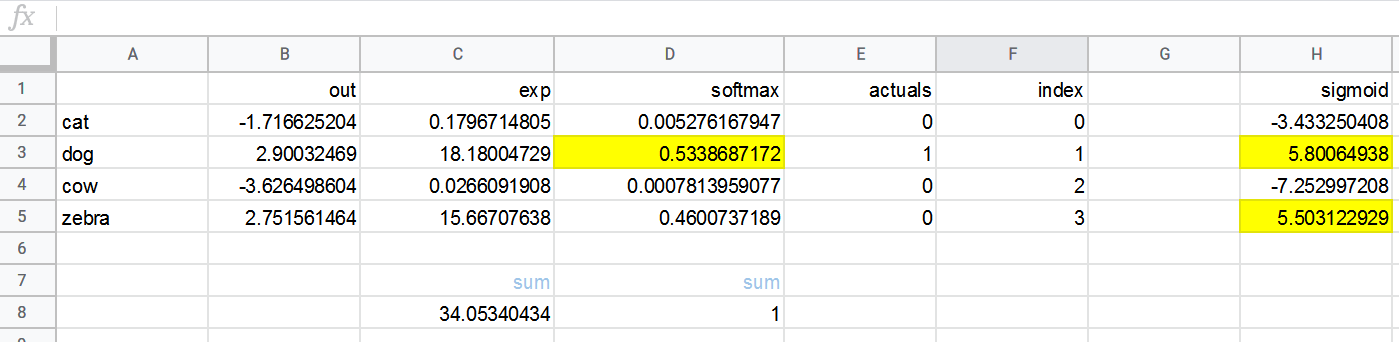
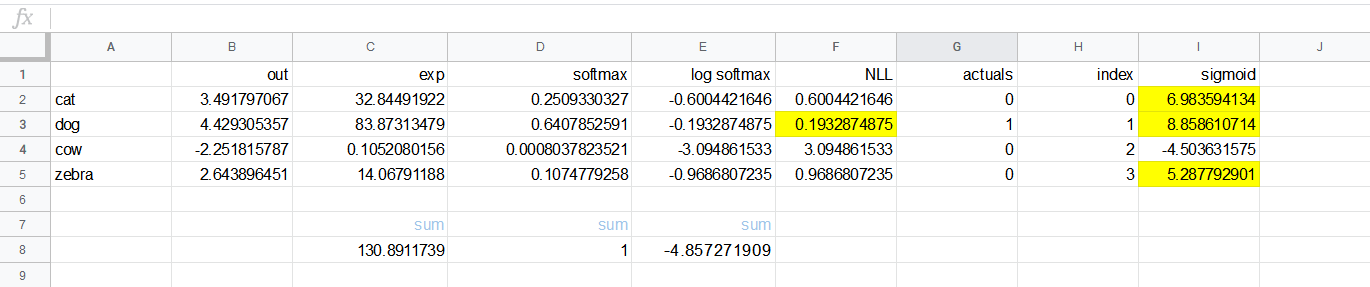
imp

Changed region(s): [[0.0, 0.0, 1.0, 0.9756]]

diff --git a/_posts/2019-07-04-softmax vs sigmoid.md b/_posts/2019-07-04-softmax vs sigmoid.md
@@ -91,7 +91,7 @@ out2 = F.softmax(inp, dim=1)
 print(torch.equal(out, out2)) #True
 ```
 
-For the `sigmoid` function the things are quite clear.
+For the `sigmoid` function the things are quite clear, based on logits we get probabilities.
 ```
 inp = torch.randn(1,5)
 print(inp)
@@ -100,6 +100,83 @@ print(F.sigmoid(inp))
 # tensor([[0.4011, 0.5117, 0.3996, 0.6514, 0.7484]])
 ```
 
+### When to use one over the other?
+
+We should use softmax if we do classification with one result, or single label classification (SLC). We should use sigmoid if we have multi-label classification case (MLC).
+
+### Case of SLC:
+
+Use log softmax followed by negative log likelihood loss (nll_loss).
+Here is the implementation of nll_loss:
+
+    def nll_loss(p, target):
+        return -p[range(target.shape[0]), target].mean()
+
+There is one function called cross entropy loss in PyTorch that replaces both softmax and nll_loss.
+
+    lp = F.log_softmax(x, dim=-1)
+    loss = F.nll_loss(lp, target)
+
+Which is equivalent to :
+
+    loss = F.cross_entropy(x, target)
+
+> Do not calculate log of softmax directly instead use log-sum-exp trick:
+
+    def log_softmax(x): 
+        return x - x.exp().sum(-1).log().unsqueeze(-1)
+
+
+### Case of MLC:
+
+We use sigmoid and binary cross entropy functions in PyTorch that do broadcasting.
+
+    def sigmoid(x): return 1/(1 + (-x).exp())
+    def binary_cross_entropy(p, y): return -(p.log()*y + (1-y)*(1-p).log()).mean()
+
+Sigmoid converts anything from (-inf, inf) into probability [0,1]. `binary_cross_entropy` will take the log of this probability later.
+
+We can forget about sigmoid if we use `F.binary_cross_entropy_with_logits` function. This function takes logits directly.
+
+    F.sigmoid + F.binary_cross_entropy = F.binary_cross_entropy_with_logits
+
+`F.sigmoid` will take logits and you may be careful in here in general case
+`logit(sigmoid(x))` is not stable:
+
+
+
+    %matplotlib inline
+    import torch
+    torch.Tensor.ndim = property(lambda x: len(x.size()))
+    import matplotlib.pyplot as plt
+    x=torch.arange(-20, 20, 1e-4)
+    def sigmo(x):
+        return 1/(1+torch.exp(-x))
+
+    def logit(x):
+        return torch.log((x/(1-x)))
+
+    plt.plot(x, logit(x))
+    plt.xlabel("logit")
+    plt.show()
+    plt.close()
+    plt.plot(x, sigmo(x))
+    plt.xlabel("sigmoid")
+    plt.show()
+    plt.close()
+    plt.plot(x, logit(sigmo(x)))
+    plt.xlabel("logit(sigmoid(x))")
+    plt.show()
+    plt.close()
+    y = logit(sigmo(x))
+    plt.plot(x, ((y-x+1e-5)/(x+1e-3)))
+    plt.xlabel("(logit(sigmo(x)-x)/x")
+    plt.show()
+    plt.close()
+
+![IMG](/images/ss2.png)
+
+Still PyTorch implementation of `F.binary_cross_entropy_with_logits` should be numerically stable.
 
 
 

diff --git a/_posts/2019-05-27-normalization.md b/_posts/2019-05-27-normalization.md
@@ -81,8 +81,10 @@ This will output like this:
 
 Note how we subtract `x - mean[..., None, None]` for specific RGB channel, and also how we do RGB channel division `std[..., None, None]` after that.
 
-At the end, we will get the result like this where our data pixel values will be around 0.
+At the end, we will get the result like this where our data pixel values will be around 0. 
 
 ...![]({{site.baseurl}}/images/normalization2.png)
 
 You may note that before we had our pixel values inside [0., 1.] range, and now we have positive and negative values around 0, ideal for machine learning.
+
+This last case is used when you need to normalize the whole dataset, not just the single image.
